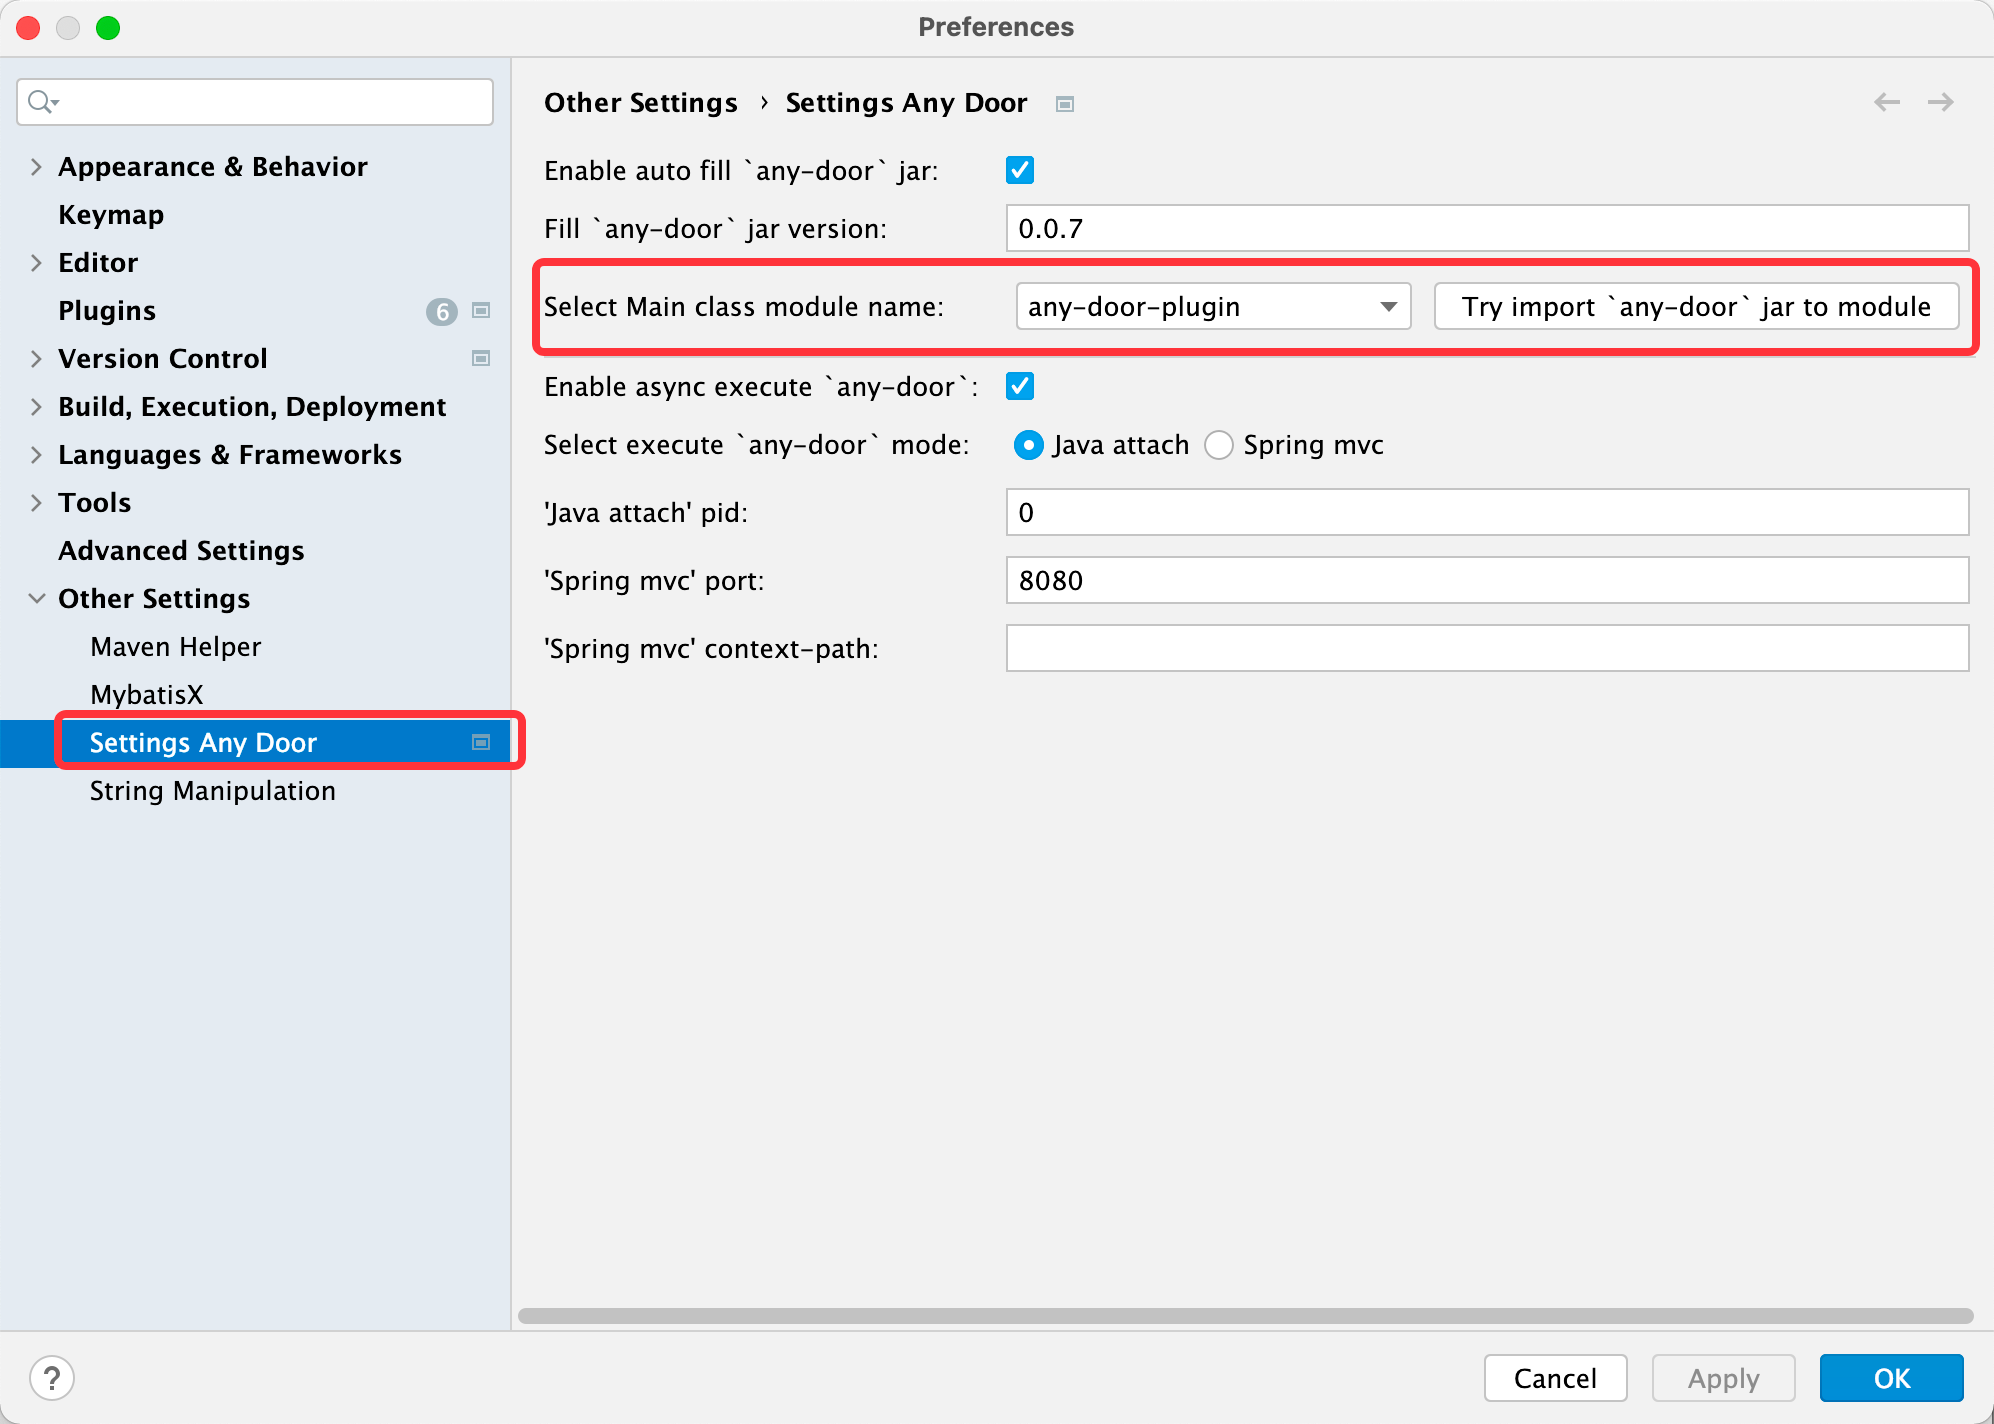
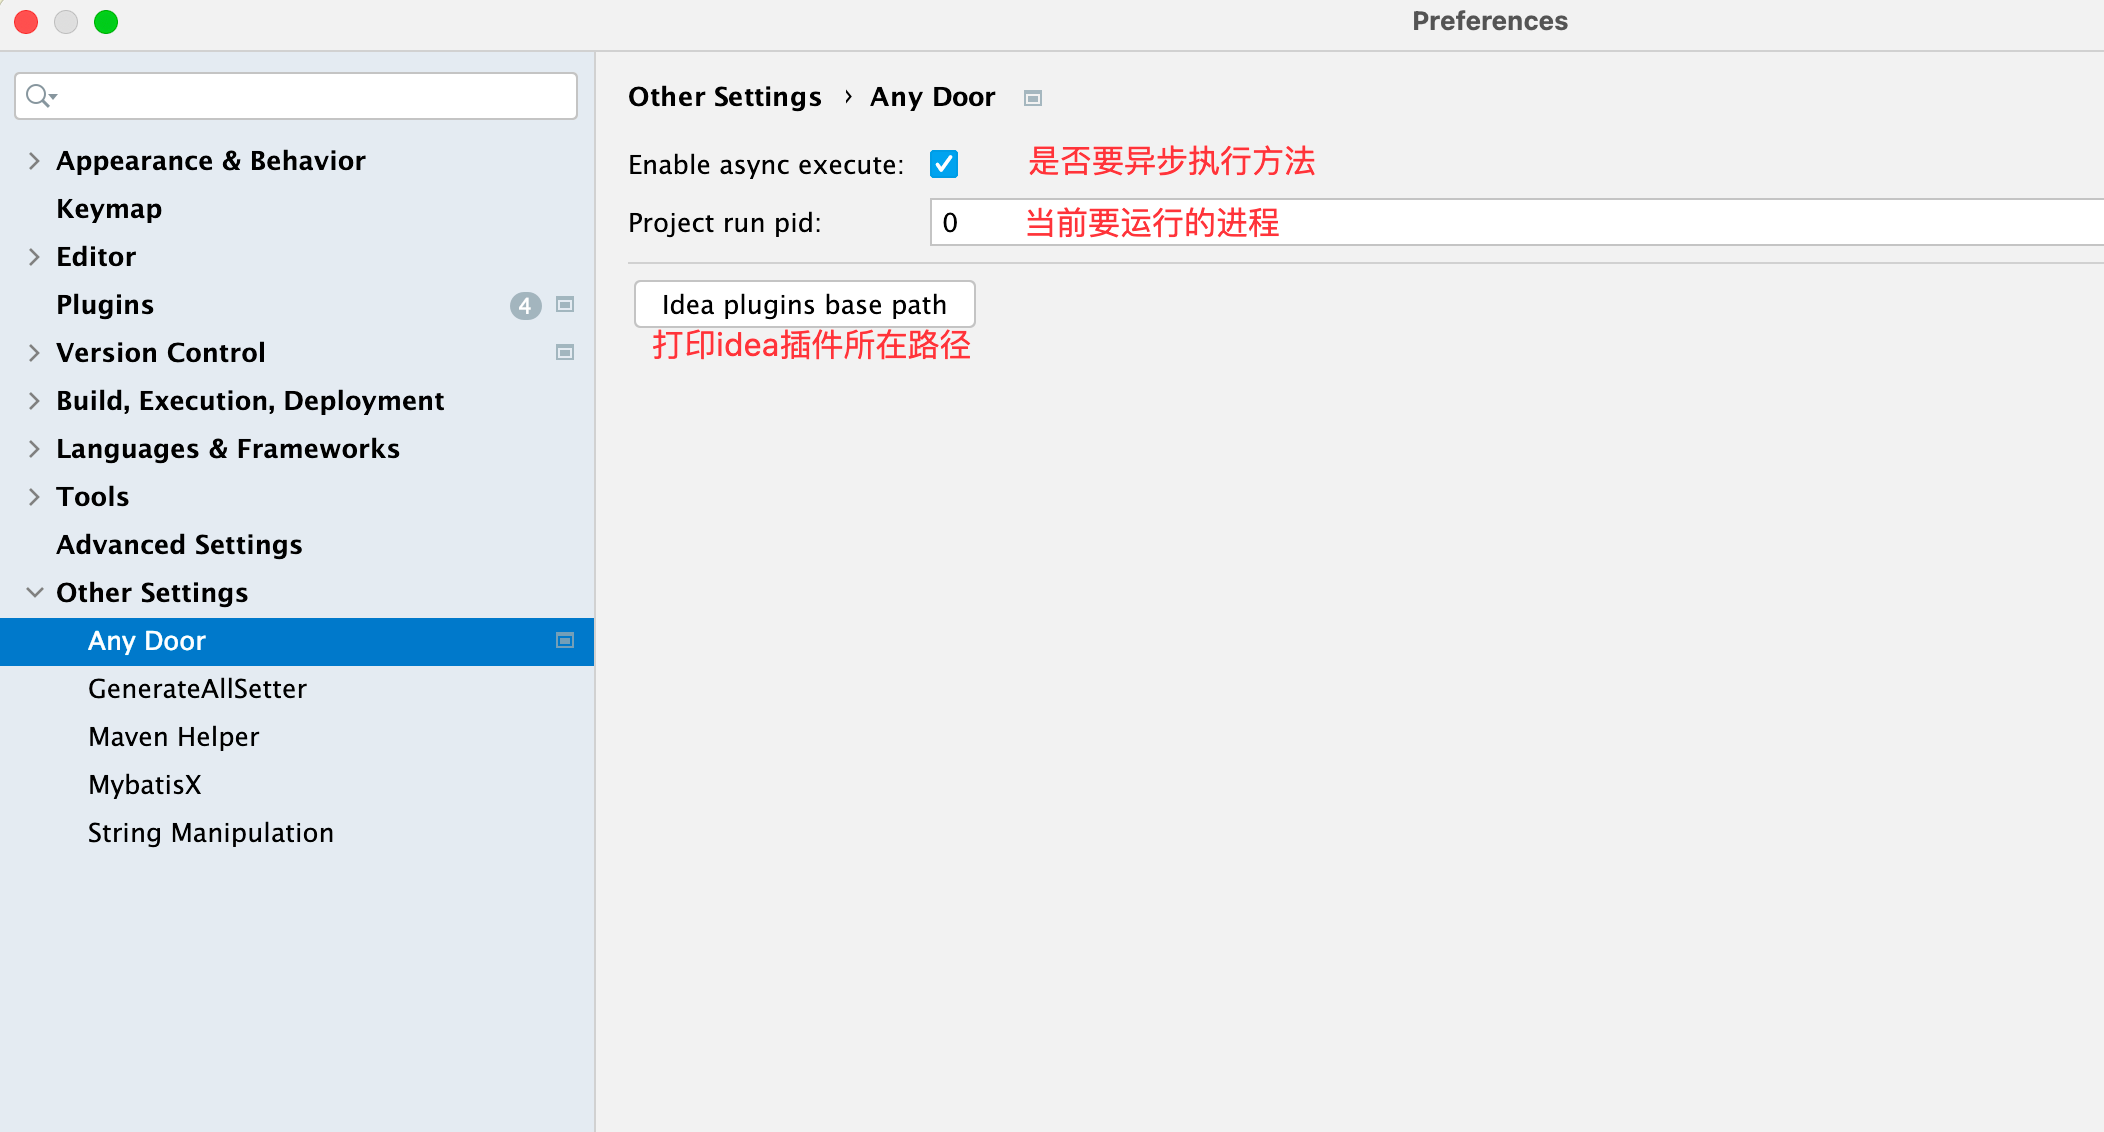
调整版本、调整说明

diff --git a/src/main/java/io/github/lgp547/anydoorplugin/AnyDoorInfo.java b/src/main/java/io/github/lgp547/anydoorplugin/AnyDoorInfo.java
@@ -6,7 +6,7 @@ import java.util.function.UnaryOperator;
 public interface AnyDoorInfo {
     String ANY_DOOR_NAME = "any-door";
 
-    String ANY_DOOR_JAR_MIN_VERSION = "1.0.1-SNAPSHOT";
+    String ANY_DOOR_JAR_MIN_VERSION = "1.0.1";
 
     String ANY_DOOR_ALL_DEPENDENCE_JAR = "any-door-all-dependence.jar";
 

diff --git a/README.md b/README.md
@@ -1,6 +1,6 @@
 # AnyDoorPlugin 任意门插件
 
-执行Spring boot项目任意对象的任意方法
+执行 Spring 项目任意对象的任意方法
 
 ## 适合场景
 对于没有http接口的方法，又想快速进行测试，这个时候即可用到。
@@ -16,9 +16,9 @@
 
 ## 支持功能
 - **核心** 调度任意方法
-- 不依赖 Spring MVC 端口也可执行
 - 执行参数将会缓存
-- spring boot 项目会主动填充依赖 jar 包
+- 可在任意地方重复上一次的调用
+- 配置页面可打印Idea插件的路径
 
 ## 快速开始
 ### 1 安装插件
@@ -27,27 +27,7 @@
 ![img.png](dosc/image/安装插件.png)
 
 ### 2 启动项目
-插件正常使用前提标记
-![img.png](dosc/image/成功启动标记.png)
-
-启动项目分自动挡和手动档两种情况，自动挡需要满足下面三个要求
-- IDEA 是 Ultimate 版本
-- IDEA 版本 >= 2021.4
-- 运行的是 Spring boot 项目
-
-![img.png](dosc/image/Springboot项目配置.png)
-
-#### 2.1 符合自动挡
-直接启动项目即可
-
-#### 2.2 手动档
-1. 打开 IDEA 的 Preferences 配置，找到 `Settings Any Door` 
-
-![img.png](dosc/image/配置页.png)
-
-2. 选择 main 函数所在的模块，并点击尝试导入 jar 包按钮
-
-导入成功所示：![img.png](dosc/image/导入成功.png)
+- 主动填充运行的进程id（可在配置页面修改）
 
 ### 3 执行调用
 1. 找到想要执行的方法，右键弹出选择打开任意门（有对应的快捷键）
@@ -62,40 +42,12 @@
 
 ## 插件属性说明
 
-![img.png](dosc/image/插件配置说明.png)
-
-
-
-## 注意事项
-- 首次使用本插件建议能访问外网Maven中央仓库。因为本地 Maven 仓库没有对应的 [AnyDoor](https://github.com/lgp547/any-door) jar 包版本将会发起请求下载到本地仓库
-
-- 若选择mvc模式调度到运行项目
-  - 需要手动填充端口号和web的前缀
-  - 若是有接口权限控制的，需要放行 '/any_door/run' 路径
+![img.png](dosc/image/配置页.png)
 
 ## 插件原理
-分两件事：导入jar包、调用项目接口
-### 导入jar包
+Java attach：通过jvm提供的功能，直接通过进程号进行跨进程调度
 
-导入jar包，实际就是优先本地的AnyDoor的jar包导入到当前项目模块（若本地Maven配置目录没有，将会从中央仓库下载并放到本地仓库），
-
-导入成功后可以在设置页面查看，当然删除也是在这里
-
-![img.png](dosc/image/jar包导入.jpg)
-
-![img.png](dosc/image/插入的maven路径.png)
-
-
-
-### 调用项目
-分两种方式，Java attach 和 Spring mvc 。推荐是默认的 attach 方式。
-
-- attach：
-  - 通过jvm提供的功能，直接通过进程号进行跨进程调度
-- mvc
-  - 就是HTTP请求，请求指定端口的 '/any_door/run' 路径
-
-详情见 [任意门AnyDoor](https://github.com/lgp547/any-door)
+实现代码详情见 [任意门AnyDoor](https://github.com/lgp547/any-door)
 
 
 
@@ -132,7 +84,14 @@
 - [x] 修复Map字段的处理
 - [x] 修复接口类调用参数为空
 
+### 1.1.0
+需要 anyDoor jar 版本 >= 1.0.1
+- [x] **重要调整：**把任意门jar包添加到当前项目，无需再远程下载jar包
+- [x] 生成json参数支持多层嵌套
+- [x] 调整配置页面
+- [x] 移除mvc调用方式
+- [x] 增加打印idea插件所在路径
+
 ## 后续支持
 详情见issues
-若一个类有多个Bean的情况下，无法调度具体的Bean
 
